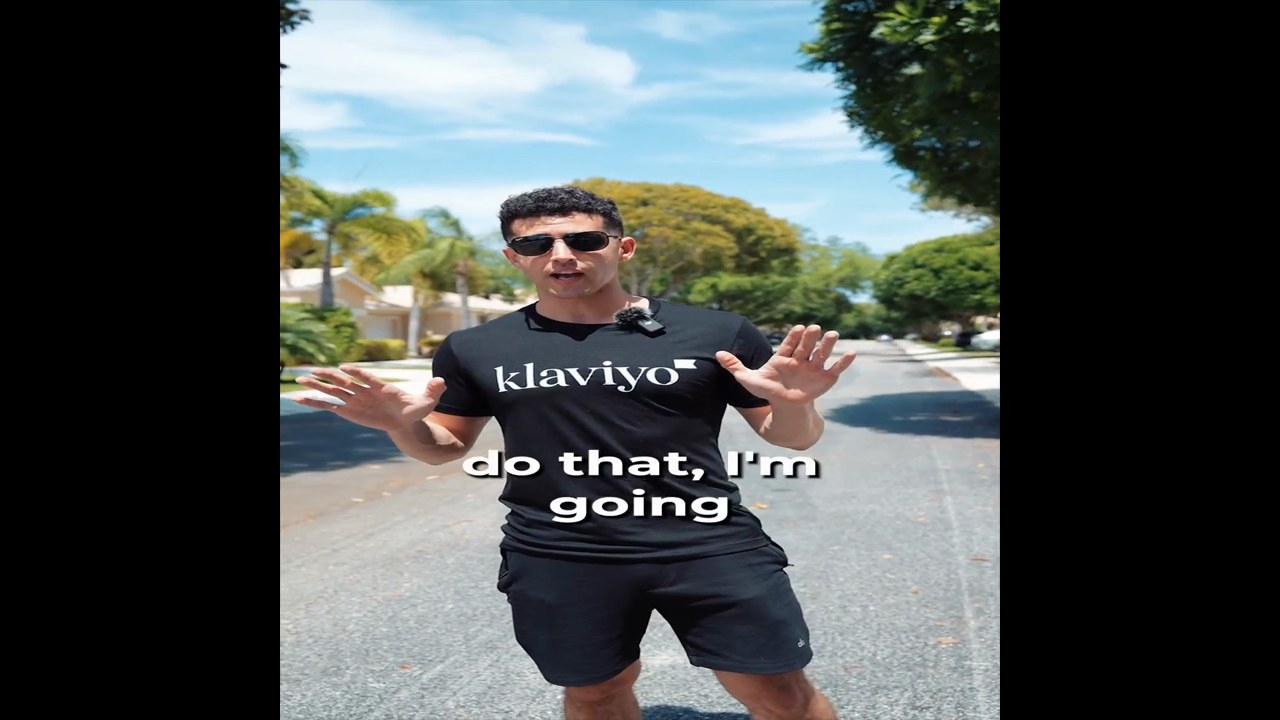
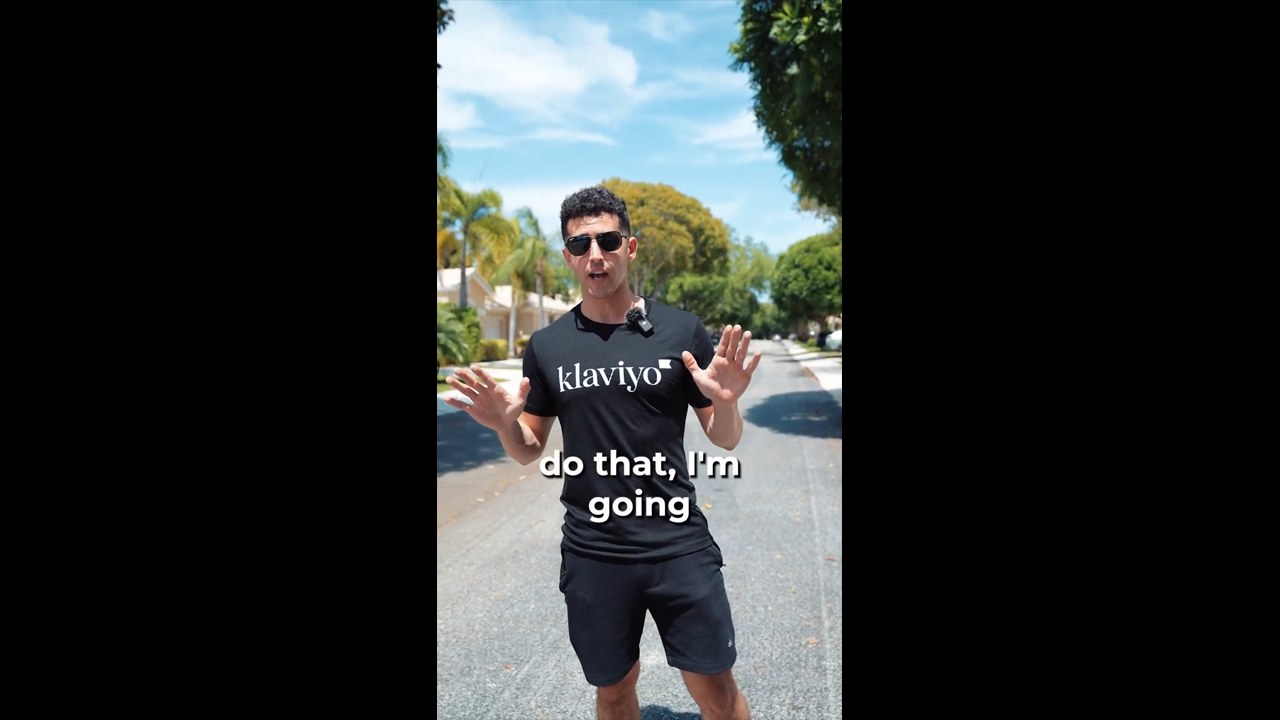
Correct pixel aspect ratio in project thumbnails

diff --git a/data/projects.ts b/data/projects.ts
@@ -2,7 +2,7 @@ export type Category = "Intro / Motion" | "Commercial" | "Motion Graphics" | "Ev
 export type ProjectVideo = { kind: "mp4"; src: string };
 export interface Project {
   id: string; title: string; tags: Category[]; typeLabel: string; year: number; client?: string;
-  duration: string; poster: string | null; previewSrc?: string; video: ProjectVideo; gradient: string;
+  duration: string; poster: string | null; posterVersion?: number; previewSrc?: string; video: ProjectVideo; gradient: string;
 }
 export const workContent = {
   label: "01 — Portfolio", title: "Selected Work",
@@ -19,6 +19,6 @@ export const projects: Project[] = [
   { id: "ai-editing-tools-editorial-reel-transcurators", title: "AI Editing Tools", tags: ["Editorial Reel"], typeLabel: "Editorial Reel", year: 2025, client: "Transcurators", duration: "00:51", poster: "/posters/ai-editing-tools-editorial-reel-transcurators.jpg", previewSrc: "/videos/AI Editing Tools Editorial Reel - Transcurators.mp4", video: { kind: "mp4", src: "/videos/AI Editing Tools Editorial Reel - Transcurators.mp4" }, gradient: "radial-gradient(ellipse at 70% 20%, #263347, transparent 65%), linear-gradient(140deg, #151a25, #0b0b0d)" },
   { id: "podcast-edit-2-transcurators", title: "Podcast Edit — Episode 2", tags: ["Podcast"], typeLabel: "Podcast", year: 2025, client: "Transcurators", duration: "00:52", poster: "/posters/podcast-edit-2-transcurators.jpg", previewSrc: "/videos/Podcast Edit 2 - Transcurators.mp4", video: { kind: "mp4", src: "/videos/Podcast Edit 2 - Transcurators.mp4" }, gradient: "radial-gradient(ellipse at 30% 70%, #30253f, transparent 65%), linear-gradient(135deg, #1a1622, #0b0b0d)" },
   { id: "podcast-edit-1-transcurators", title: "Podcast Edit — Episode 1", tags: ["Podcast"], typeLabel: "Podcast", year: 2025, client: "Transcurators", duration: "00:42", poster: "/posters/podcast-edit-1-transcurators.jpg", previewSrc: "/videos/Podcast Edit 1 - Transcurators.mp4", video: { kind: "mp4", src: "/videos/Podcast Edit 1 - Transcurators.mp4" }, gradient: "radial-gradient(ellipse at 70% 30%, #243b36, transparent 65%), linear-gradient(145deg, #141e1c, #0b0b0d)" },
-  { id: "video-project-1", title: "Airbnb Arbitrage Coaching Reel — Minimalist Kinetic Typography & Storytelling", tags: ["Video Edit"], typeLabel: "Video Edit", year: 2025, duration: "01:59", poster: "/posters/video-project-1.jpg", previewSrc: "/videos/Video Project 1.mp4", video: { kind: "mp4", src: "/videos/Video Project 1.mp4" }, gradient: "radial-gradient(ellipse at 70% 25%, #2b3244, transparent 65%), linear-gradient(140deg, #181b24, #0b0b0d)" },
-  { id: "ad-01", title: "Fast-Paced Talking Head & Visual Hooks", tags: ["Commercial"], typeLabel: "Commercial", year: 2025, duration: "00:46", poster: "/posters/ad-01.jpg", previewSrc: "/videos/Ad 01.mp4", video: { kind: "mp4", src: "/videos/Ad 01.mp4" }, gradient: "radial-gradient(ellipse at 35% 70%, #263c34, transparent 65%), linear-gradient(135deg, #171e1a, #0b0b0d)" },
+  { id: "video-project-1", title: "Airbnb Arbitrage Coaching Reel — Minimalist Kinetic Typography & Storytelling", tags: ["Video Edit"], typeLabel: "Video Edit", year: 2025, duration: "01:59", poster: "/posters/video-project-1.jpg", posterVersion: 2, previewSrc: "/videos/Video Project 1.mp4", video: { kind: "mp4", src: "/videos/Video Project 1.mp4" }, gradient: "radial-gradient(ellipse at 70% 25%, #2b3244, transparent 65%), linear-gradient(140deg, #181b24, #0b0b0d)" },
+  { id: "ad-01", title: "Fast-Paced Talking Head & Visual Hooks", tags: ["Commercial"], typeLabel: "Commercial", year: 2025, duration: "00:46", poster: "/posters/ad-01.jpg", posterVersion: 2, previewSrc: "/videos/Ad 01.mp4", video: { kind: "mp4", src: "/videos/Ad 01.mp4" }, gradient: "radial-gradient(ellipse at 35% 70%, #263c34, transparent 65%), linear-gradient(135deg, #171e1a, #0b0b0d)" },
 ];

diff --git a/components/ProjectCard.tsx b/components/ProjectCard.tsx
@@ -35,7 +35,7 @@ export default function ProjectCard({ project, className, onOpen }: Props) {
       aria-label={`Watch ${project.title}`} aria-haspopup="dialog" className="group block h-full w-full overflow-hidden rounded-md border border-hairline bg-surface-1 text-left">
       <span className="relative block aspect-video overflow-hidden">
         <span className="absolute inset-0 flex items-end justify-start p-4 text-left transition-transform duration-ui motion-safe:group-hover:scale-105 motion-reduce:transition-none" style={{ background: project.gradient }}>
-          {project.poster ? <Image src={project.poster} alt={project.title} fill sizes="(max-width: 767px) calc(100vw - 48px), (max-width: 1247px) 50vw, 600px" className="object-cover" /> : <span className="max-w-xs text-sm font-semibold lg:text-lg leading-tight tracking-heading text-text/80">{project.title}</span>}
+          {project.poster ? <Image src={project.posterVersion ? `${project.poster}${project.poster.includes("?") ? "&" : "?"}v=${project.posterVersion}` : project.poster} alt={project.title} fill sizes="(max-width: 767px) calc(100vw - 48px), (max-width: 1247px) 50vw, 600px" className="object-cover" /> : <span className="max-w-xs text-sm font-semibold lg:text-lg leading-tight tracking-heading text-text/80">{project.title}</span>}
         </span>
         {loaded && project.previewSrc && <video ref={video} src={project.previewSrc} muted loop playsInline preload="none" onLoadedData={play} onError={stop} aria-hidden="true" tabIndex={-1} className={`pointer-events-none absolute inset-0 h-full w-full object-cover transition-opacity duration-ui ${playing ? "opacity-100" : "opacity-0"}`} />}
         <span className="absolute right-2 top-2 rounded-md border border-hairline bg-bg/80 px-2 py-2 font-mono text-xs">{project.duration}</span>
